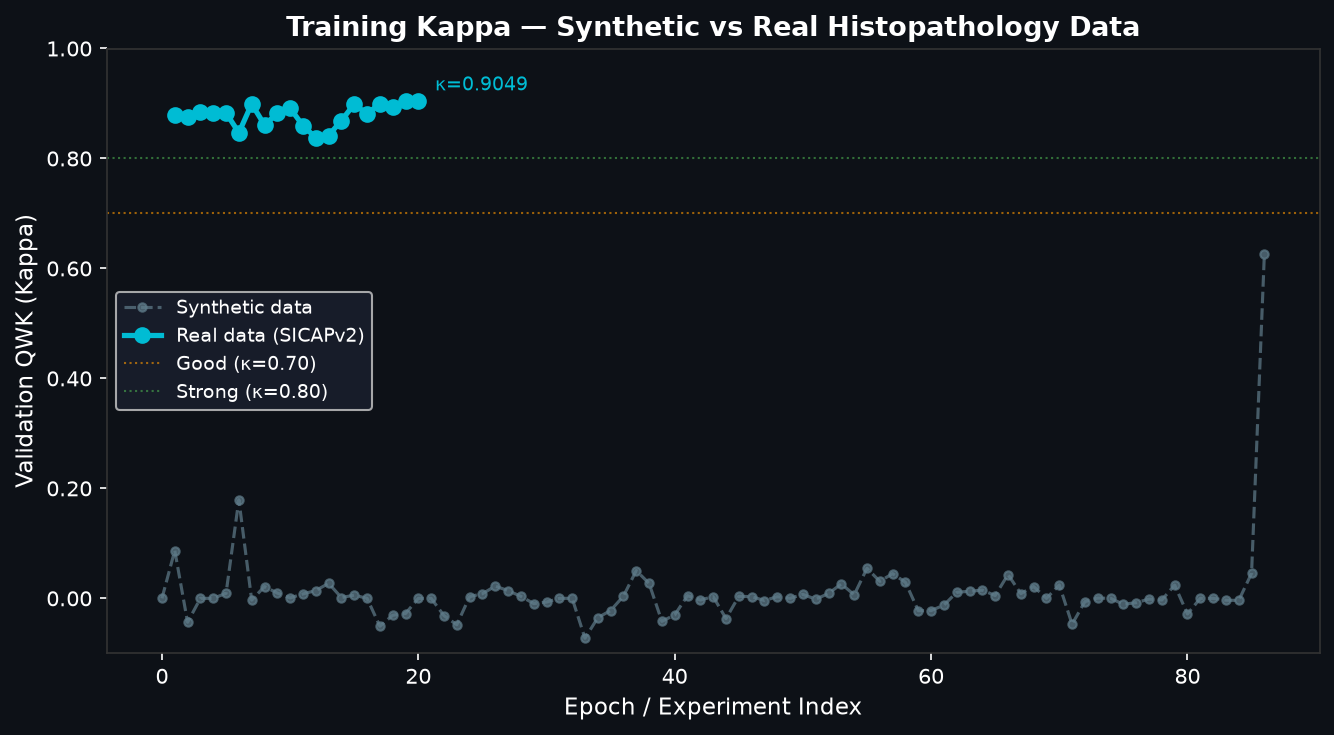
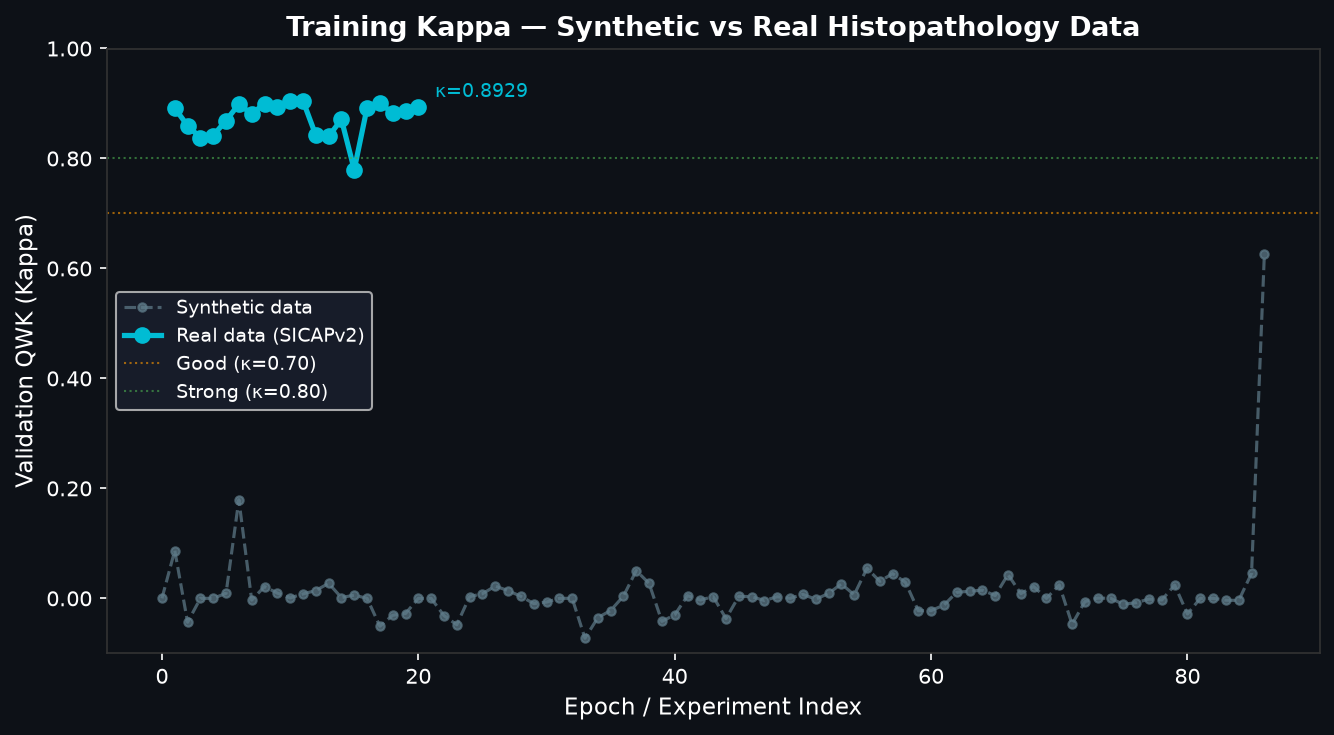
docs(auto): update results & paper after sweep backbone=resnet50 kappa=[latest]

Changed region(s): [[0.1229, 0.0898, 0.3996, 0.2395]]

diff --git a/docs/RESULTS.md b/docs/RESULTS.md
@@ -1,6 +1,6 @@
 # Prostate CADx — Experiment Results
 
-> Auto-generated: 2026-07-16 16:27 UTC
+> Auto-generated: 2026-07-16 17:28 UTC
 
 ## Summary (Best Real-Data Run)
 
@@ -638,6 +638,15 @@
 | 615 | 2026-07-16 16:15:50 | Real (SICAPv2) | 8 | 32 | 0.8934 | 0.6365 |
 | 616 | 2026-07-16 16:21:28 | Real (SICAPv2) | 9 | 32 | 0.9043 | 0.6152 |
 | 617 | 2026-07-16 16:27:40 | Real (SICAPv2) | 10 | 32 | 0.9049 | 0.6438 |
+| 618 | 2026-07-16 16:42:24 | Real (SICAPv2) | 1 | 32 | 0.8424 | 0.4816 |
+| 619 | 2026-07-16 16:47:13 | Real (SICAPv2) | 2 | 32 | 0.8400 | 0.5787 |
+| 620 | 2026-07-16 16:53:33 | Real (SICAPv2) | 3 | 32 | 0.8711 | 0.5305 |
+| 621 | 2026-07-16 17:00:07 | Real (SICAPv2) | 4 | 32 | 0.7796 | 0.7024 |
+| 622 | 2026-07-16 17:06:40 | Real (SICAPv2) | 5 | 32 | 0.8921 | 0.5792 |
+| 623 | 2026-07-16 17:12:48 | Real (SICAPv2) | 6 | 32 | 0.9011 | 0.6262 |
+| 624 | 2026-07-16 17:18:50 | Real (SICAPv2) | 7 | 32 | 0.8824 | 0.5931 |
+| 625 | 2026-07-16 17:23:49 | Real (SICAPv2) | 8 | 32 | 0.8860 | 0.7389 |
+| 626 | 2026-07-16 17:28:36 | Real (SICAPv2) | 9 | 32 | 0.8929 | 0.5948 |
 
 ---
 
@@ -646,8 +655,8 @@
 | Metric | Synthetic (Fallback) | Real (SICAPv2) |
 |--------|---------------------|----------------|
 | Best Val Kappa | 0.6269 | **0.9234** |
-| Mean Val Kappa | 0.0103 | 0.8536 |
-| N Experiments | 87 | 530 |
+| Mean Val Kappa | 0.0103 | 0.8538 |
+| N Experiments | 87 | 539 |
 
 ---
 